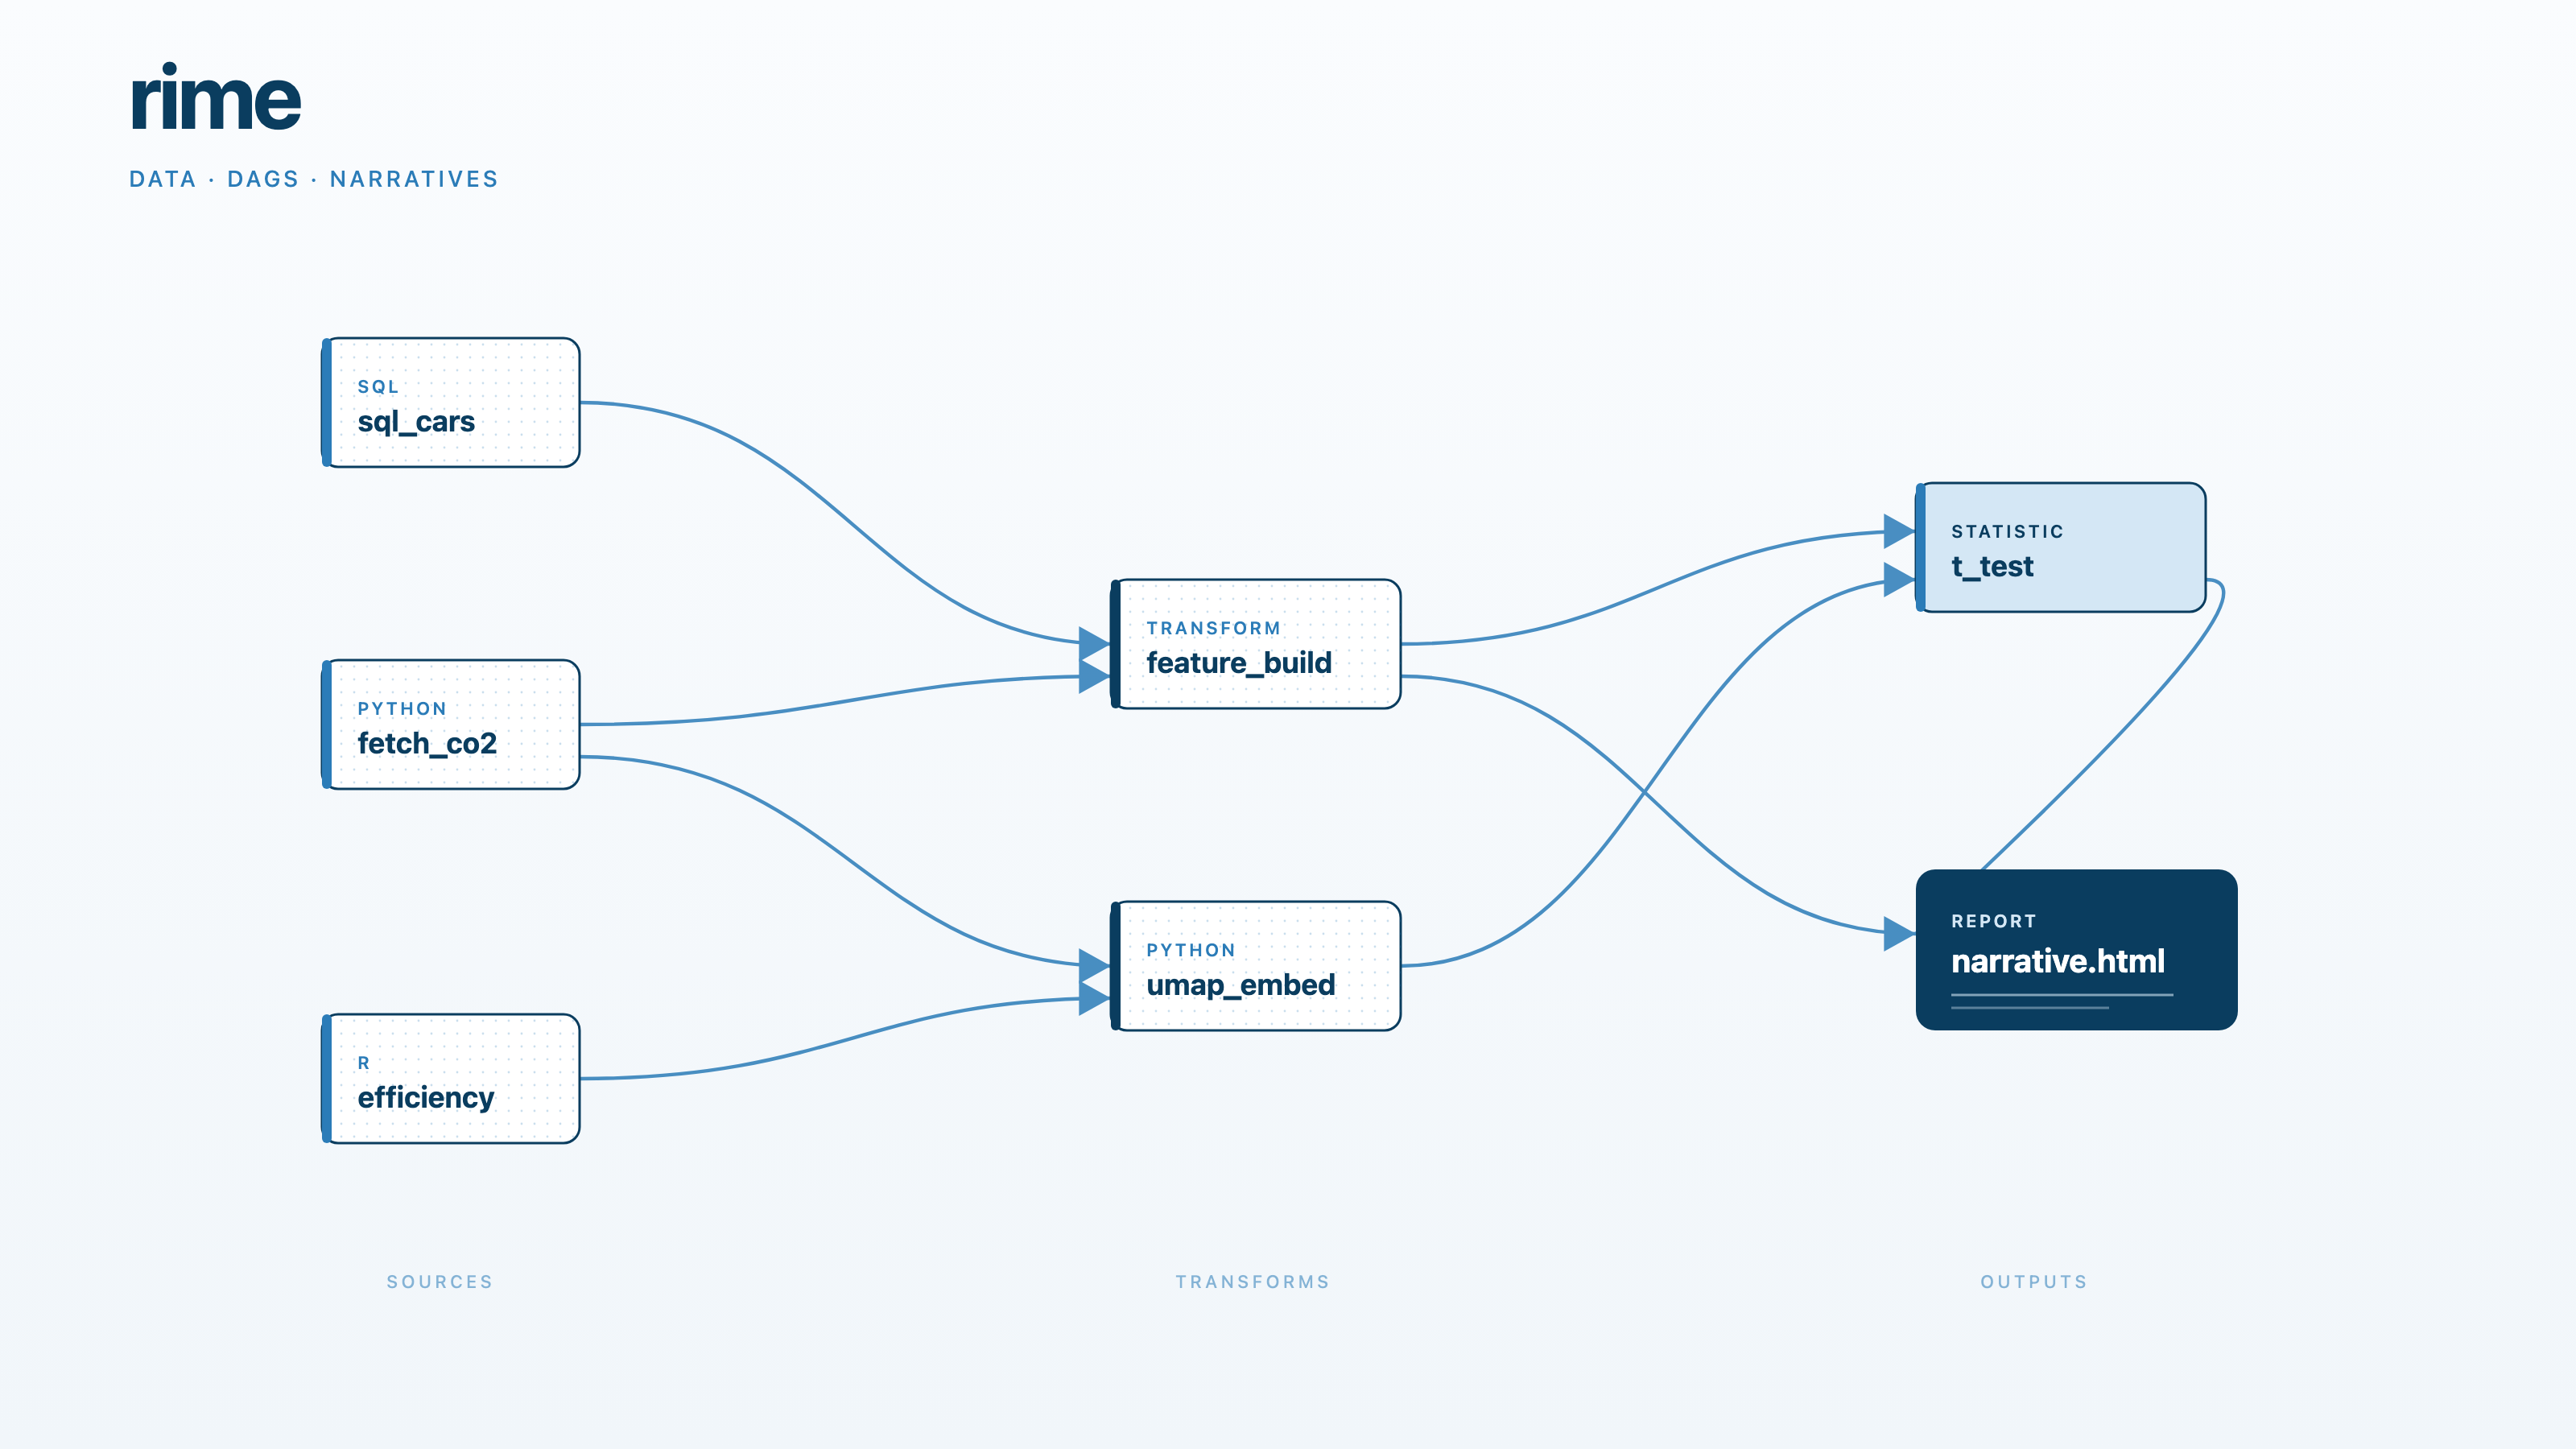
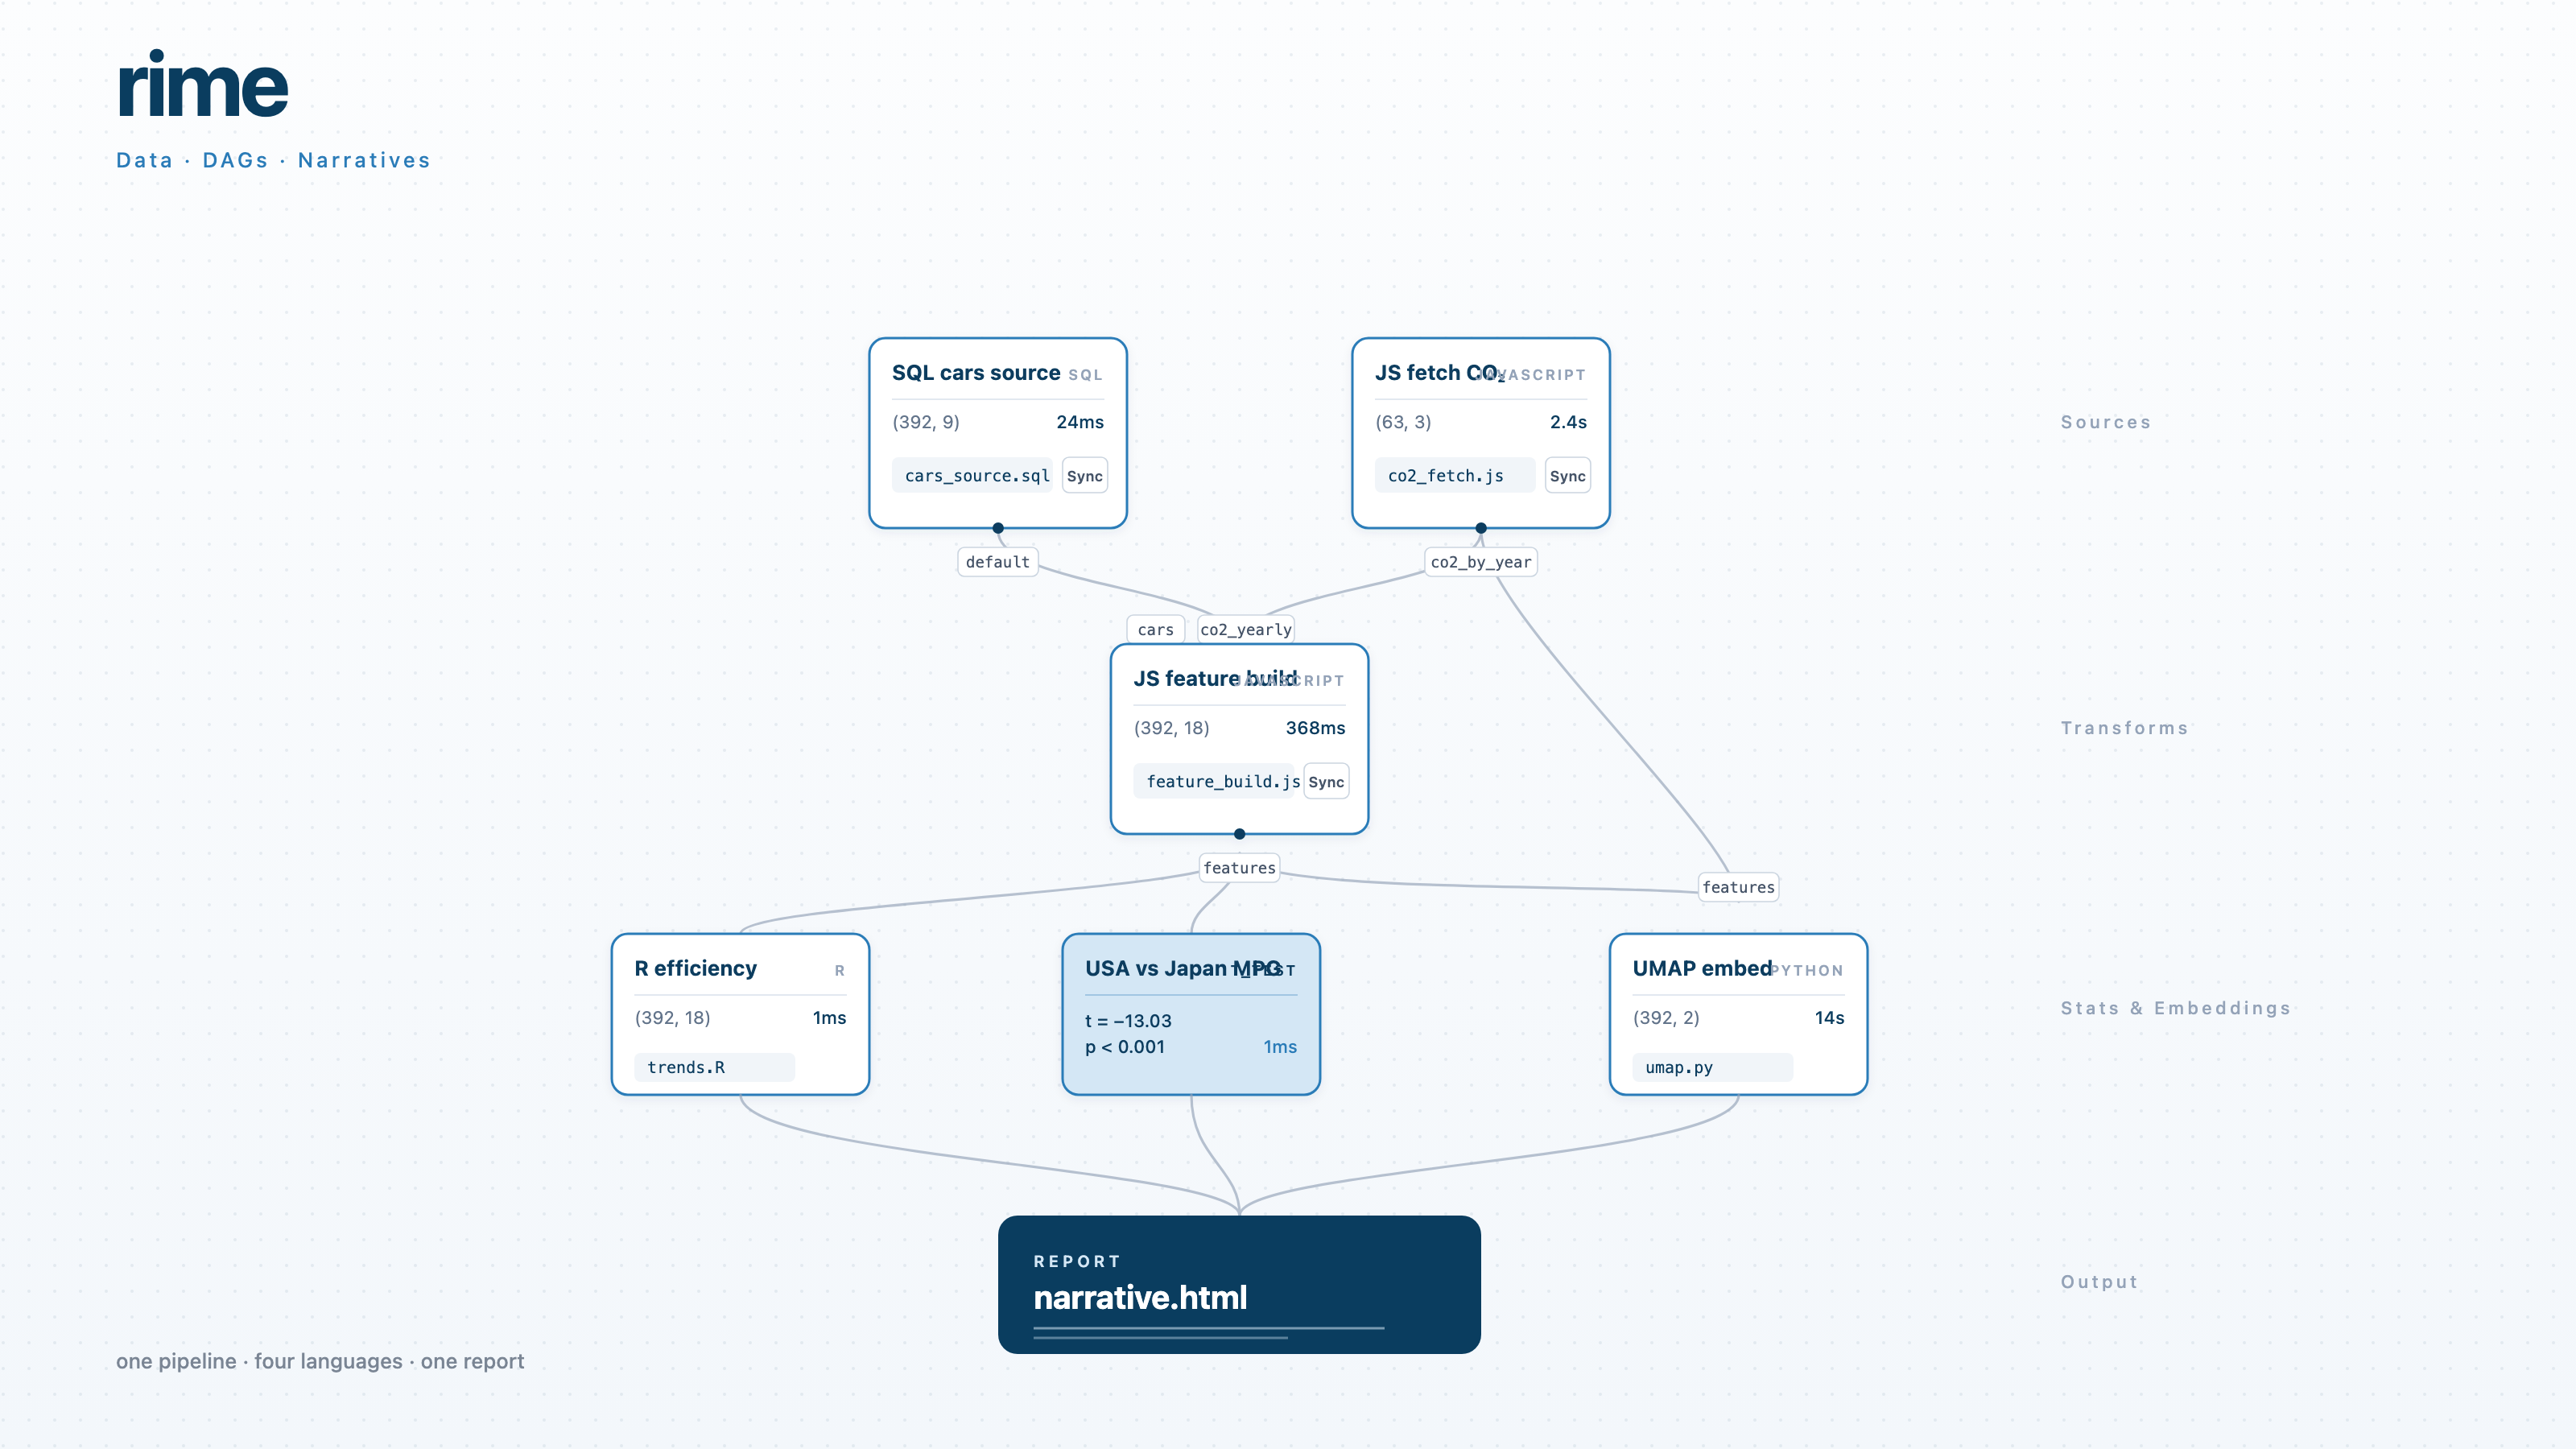
design: refine hero-01 to match the editor's actual layout
After opening the live research-editor and observing the real DAG
canvas, refined hero-01-dag-frost.svg to mirror the product:

- Vertical (top-down) flow instead of horizontal
- Node anatomy matches editor: header (title + language badge),
  stats row (shape + duration), source-file pill + Sync button,
  output port chip below
- Statistical terminal nodes show actual test result inline
  (t = -13.03, p < 0.001) replacing the file row
- Soft gray bezier edges, no arrowheads (editor convention)
- Dotted grid background (React Flow style)
- Frost-blue palette kept (brand DNA preserved; the editor's current
  mint accent is a pre-Rime artifact that will be re-skinned post-rename)

Updated DESIGN_GALLERY.md with:
- Refreshed hero-01 row description
- New "What I learned from opening the real editor" section
  documenting node anatomy, edge style, background, the two-pane IDE
  structure, and the editor-accent-color migration recommendation

diff --git a/DESIGN_GALLERY.md b/DESIGN_GALLERY.md
@@ -42,8 +42,8 @@ Two compositional approaches. SVGs at 1600×900, vector-only.
 
 | Concept | Preview | Notes |
 |---|---|---|
-| **01 — DAG Frost** | ![](src/assets/concepts/screenshots/hero-01-dag-frost.png) | Three-column DAG flow (Sources → Transforms → Outputs) with frost-pattern dot fills on nodes. Shows what a real Rime pipeline looks like. The terminal report node is the visual climax. **My pick** for the landing hero. |
-| **02 — Iso Pipeline** | ![](src/assets/concepts/screenshots/hero-02-iso-pipeline.png) | Isometric stack of language lanes (SQL / Python / R / Output) with stage blocks sliding right. More polished/marketing-y; less "this is how the tool works." |
+| **01 — DAG Frost** *(refined to match editor)* | ![](src/assets/concepts/screenshots/hero-01-dag-frost.png) | **Top-down vertical DAG** matching the actual Vostok/Rime editor layout. Node anatomy mirrors the real product: header row with title + language badge, shape + duration stats, source file pill + Sync button, output port chip below. Edges are soft gray bezier curves on a dotted grid (React Flow style). The `narrative.html` report sits at the bottom as the visual climax. **My pick** for the landing hero — anyone who's used the editor will recognize the layout instantly. |
+| **02 — Iso Pipeline** | ![](src/assets/concepts/screenshots/hero-02-iso-pipeline.png) | Isometric stack of language lanes (SQL / Python / R / Output) with stage blocks sliding right. More polished/marketing-y; less "this is how the tool works." Doesn't match the editor's actual layout. |
 
 Files at `docs/src/assets/concepts/heroes/hero-NN-*.svg`.
 
@@ -76,6 +76,31 @@ Files at `docs/src/assets/concepts/landings/landing-{a,b}-*.html`.
 - The wordmark-02 icicles are slightly cute. A more austere two-spike version might age better.
 - Hero-01 could use a subtle data-shape (a tiny table preview) inside one of the transform nodes to make it less abstract.
 - Landing-b's "Why not a notebook?" / "Why not Snakemake?" Q&A pattern is too rhetorical — would soften it.
+
+---
+
+## What I learned from opening the real editor
+
+After opening the live editor and watching the DAG render, refined the brand to match the actual product:
+
+**DAG orientation: top-down, not left-to-right.** The editor lays out nodes vertically — sources at the top, transforms below, terminal nodes (stats/outputs) at the bottom. The original hero-01 had a horizontal layout (Sources → Transforms → Outputs left-to-right) which would have been a brand-disconnect the moment a user opened the app. **Refreshed hero-01 to vertical** to match. Anyone who's used the editor will recognize the layout.
+
+**Node anatomy is consistent and tight.** Each editor node has:
+- Header row: bold title + language badge in small caps top-right (`SQL`, `JAVASCRIPT`, `PYTHON`, `R`, `T_TEST`, `ANOVA`)
+- Stats row: shape tuple `(rows, cols)` + cached flag + execution duration right-aligned
+- Source row: `filename.ext` in monospace + small "Sync" button on the right
+- Port chip below the node showing the output handle name (`default`, `co2_by_year`, `features`)
+- For statistical terminal nodes (t_test, anova): the actual test result (e.g. `t = −13.03, p < 0.001`) replaces the file-row
+
+The refreshed hero-01 mirrors all of this.
+
+**Edge style: subtle gray bezier curves, no arrowheads.** Edges in the editor are soft #94a3b8-ish gray, not the bold frost-blue I had originally drawn. Arrowheads aren't needed because the top-down flow makes direction obvious.
+
+**Background: dotted grid (React Flow default).** The editor canvas has a subtle light-gray dot pattern. The hero now uses the same.
+
+**Current editor accent is GREEN, not blue.** The live UI (pre-Rime rename) uses a fresh mint-green for node borders and toolbar pills. This will be inconsistent with the wordmark/docs frost-blue once the rename ships. **Recommendation:** when the rename branch lands and you start updating the editor's brand, switch its accent tokens from `#a8dcc1` (mint) to the frost-blue family (`#2b7cb8` accent, `#d4e7f5` soft) so the editor visually matches the docs. This is a one-CSS-file change inside `rime-editor/src/renderer/`.
+
+**Editor IS a two-pane IDE.** Clicking a node opens a right-side panel with tabs: `Node Spotlight | YAML Spec | Review | Version history`. The Node Spotlight tab shows the script source in a Monaco editor with full syntax highlighting. This is a strong asset for the docs `/editor/` section once we capture proper screenshots post-rename — the two-pane IDE structure is a real differentiator vs. Snakemake/Nextflow (which have no UI at all).
 
 ## Next steps
 